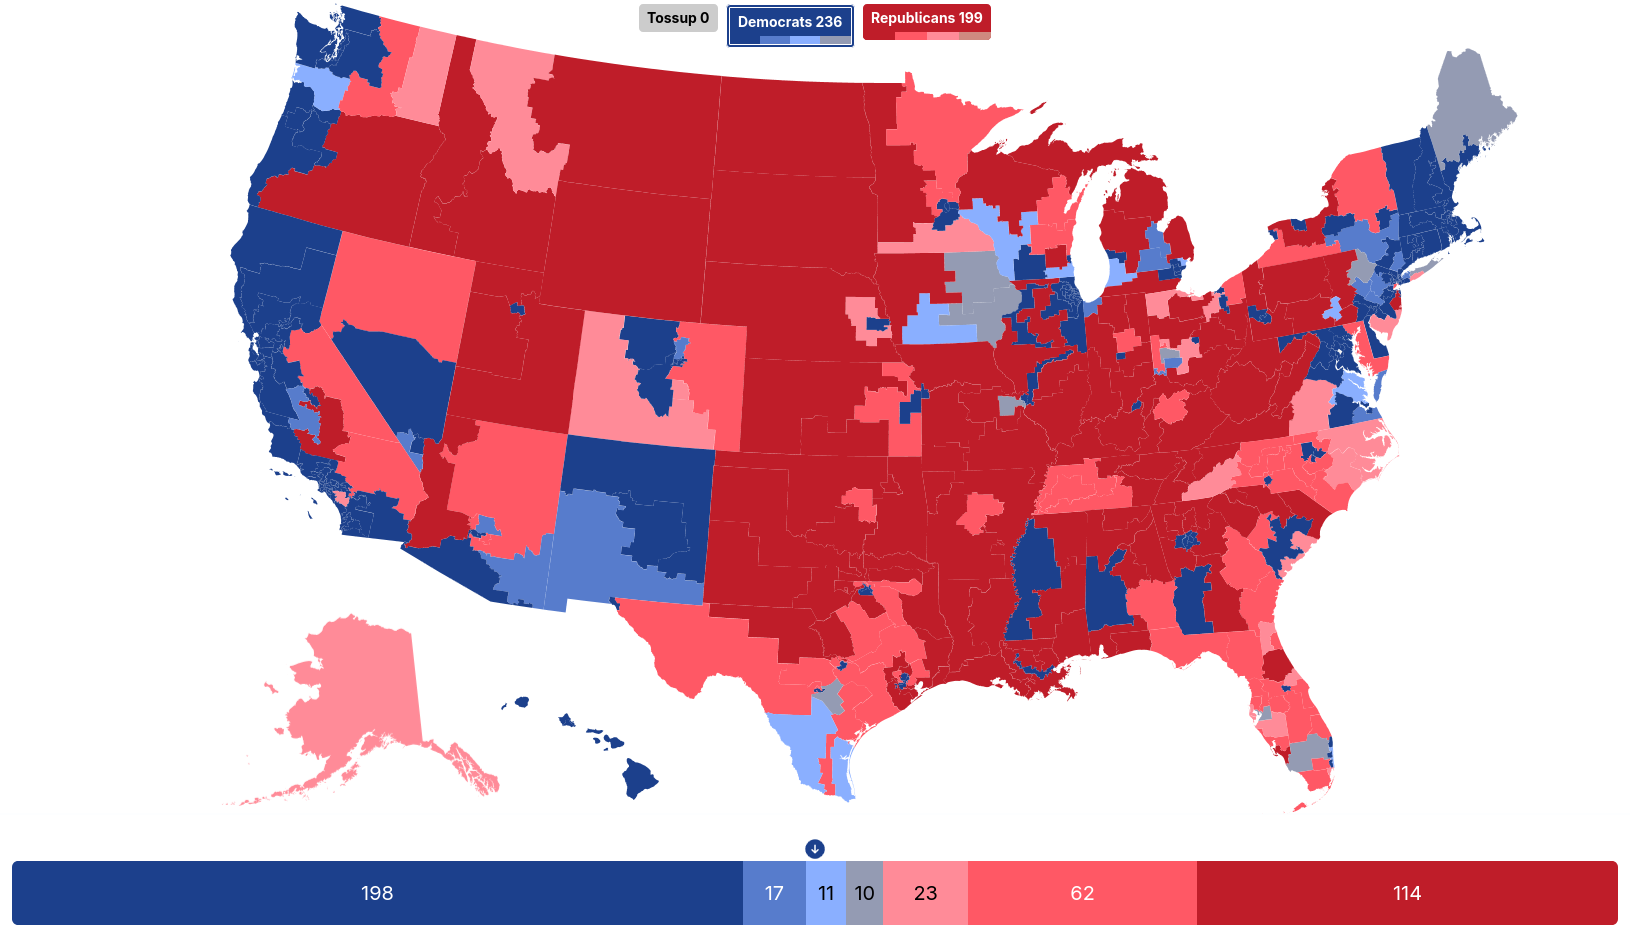
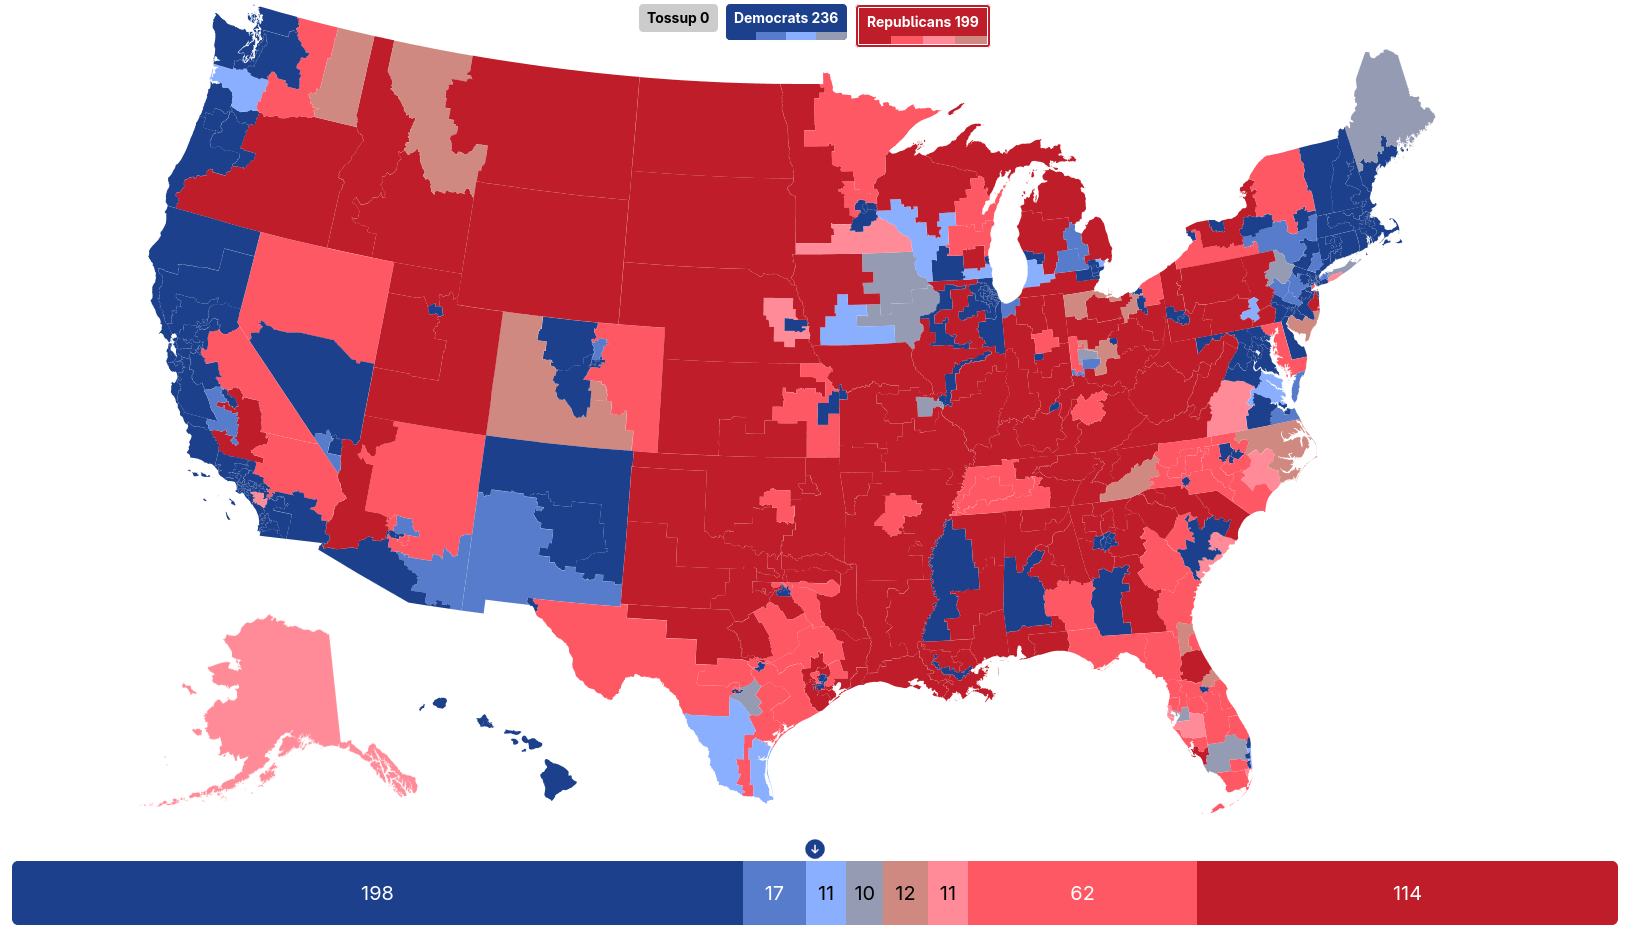
final touches

diff --git a/public/blog/election-2026/index.html b/public/blog/election-2026/index.html
@@ -330,13 +330,14 @@ The Democrats will win a seat if and only if \(M_\text{seat}>0\) (suppose there 
 For example, suppose a seat has CPVI R+4, or \(-4\). Then it takes a national generic ballot of greater (more Democratic) than \(-(-4)=+8\), i.e. D+8 or more.</p>
 <p>The predicted margin \(M\) is a seat&rsquo;s CPVI (\(+\) for Democratic, \(-\) for Republican) plus \(+8.53\). Sort into tilt/lean/likely/safe as follows:</p>
 <ul>
-<li>\(0 < M \leq 1\): Tilt.</li>
-<li>\(1 < M \leq 5\): Lean.</li>
+<li>\(0 < M \leq 2\): Tilt.</li>
+<li>\(2 < M \leq 5\): Lean.</li>
 <li>\(5 < M \leq 12\): Likely.</li>
 <li>\(M > 12\): Safe.</li>
 </ul>
 <p><img src="/images/2026-house.png" alt="House predictions"></p>
-<p>I think this is actually somewhat reasonable. There are some seats that I disagree with (NC-01, NY-01, OH-07 because of the Max Miller scandal, OH-09, OH-10, TX-15), but overall, I think it&rsquo;s as good as it gets for a uniform swing model. You can compare it to the <a href="https://www.racetothewh.com/house">RaceToTheWH</a> and <a href="https://www.theargumentmag.com/p/split-ticket-2026-midterms-model">Split Ticket</a> forecasts. The predictions are not too dissimilar.</p>
+<p>I think this is actually somewhat reasonable. There are some seats that I think are wrong (NC-01, NY-01, TX-15, MO-05, Ohio and Colorado), but mainly: OH-10 (Mike Turner won by a lot more than the presidential margin) and PA-01 (Fitzpatrick is a strong overperformer). The tilt seats are extremely close so they all could go either way.</p>
+<p>Overall, though, I think it&rsquo;s as good as it gets for a uniform swing model. You can compare it to the <a href="https://www.racetothewh.com/house">RaceToTheWH</a> and <a href="https://www.theargumentmag.com/p/split-ticket-2026-midterms-model">Split Ticket</a> forecasts.</p>
 <details>
 <summary>Seat flips</summary>
 <p><u>Underlined</u> incumbents retiring. Seats marked by * affected by redistricting.</p>
@@ -563,21 +564,21 @@ For example, suppose a seat has CPVI R+4, or \(-4\). Then it takes a national ge
 			</tr>
 			<tr>
 					<td style="text-align: center">TX-9 *</td>
-					<td style="text-align: center"><em>None</em></td>
+					<td style="text-align: center"><em>None</em>²</td>
 					<td style="text-align: center">D</td>
 					<td style="text-align: center">R</td>
 					<td style="text-align: center">R+9</td>
 			</tr>
 			<tr>
 					<td style="text-align: center">TX-32 *</td>
-					<td style="text-align: center"><em>None</em></td>
+					<td style="text-align: center"><em>None</em>²</td>
 					<td style="text-align: center">D</td>
 					<td style="text-align: center">R</td>
 					<td style="text-align: center">R+7</td>
 			</tr>
 			<tr>
 					<td style="text-align: center">UT-1 *</td>
-					<td style="text-align: center"><em>None</em></td>
+					<td style="text-align: center"><em>None</em>²</td>
 					<td style="text-align: center">R</td>
 					<td style="text-align: center">D</td>
 					<td style="text-align: center">D+32</td>
@@ -612,7 +613,8 @@ For example, suppose a seat has CPVI R+4, or \(-4\). Then it takes a national ge
 			</tr>
 	</tbody>
 </table>
-<p>¹: Running in CA-40.</p>
+<p>¹ Running in CA-40.
+² Open seat due to redistricting.</p>
 <p>Margins are not precise as I only got PVI without decimal places. I probably got the redistricting mixed up somewhere, especially California.</p>
 </details>
 <p>Take these this with a grain of salt. Uniform national swing like this is not a good way of predicting the House as the <a href="#limitations">limitations</a>, specifically the localized effects, are even more pronounced.</p>

diff --git a/content/blog/election-2026.md b/content/blog/election-2026.md
@@ -220,14 +220,16 @@ The Democrats will win a seat if and only if \(M_\text{seat}>0\) (suppose there 
 For example, suppose a seat has CPVI R+4, or \(-4\). Then it takes a national generic ballot of greater (more Democratic) than \(-(-4)=+8\), i.e. D+8 or more.
 
 The predicted margin \(M\) is a seat's CPVI (\(+\) for Democratic, \(-\) for Republican) plus \(+8.53\). Sort into tilt/lean/likely/safe as follows:
- - \(0 < M \leq 1\): Tilt.
- - \(1 < M \leq 5\): Lean.
+ - \(0 < M \leq 2\): Tilt.
+ - \(2 < M \leq 5\): Lean.
  - \(5 < M \leq 12\): Likely.
  - \(M > 12\): Safe.
 
 ![House predictions](/images/2026-house.png)
 
-I think this is actually somewhat reasonable. There are some seats that I disagree with (NC-01, NY-01, OH-07 because of the Max Miller scandal, OH-09, OH-10, TX-15), but overall, I think it's as good as it gets for a uniform swing model. You can compare it to the [RaceToTheWH](https://www.racetothewh.com/house) and [Split Ticket](https://www.theargumentmag.com/p/split-ticket-2026-midterms-model) forecasts. The predictions are not too dissimilar.
+I think this is actually somewhat reasonable. There are some seats that I think are wrong (NC-01, NY-01, TX-15, MO-05, Ohio and Colorado), but mainly: OH-10 (Mike Turner won by a lot more than the presidential margin) and PA-01 (Fitzpatrick is a strong overperformer). The tilt seats are extremely close so they all could go either way.
+
+Overall, though, I think it's as good as it gets for a uniform swing model. You can compare it to the [RaceToTheWH](https://www.racetothewh.com/house) and [Split Ticket](https://www.theargumentmag.com/p/split-ticket-2026-midterms-model) forecasts.
 
 <details>
 <summary>Seat flips</summary>
@@ -266,16 +268,17 @@ I think this is actually somewhat reasonable. There are some seats that I disagr
 |PA-8|Bresnahan|R|D|D+0.5|
 |PA-10|Perry|R|D|D+2|
 |TN-9 *|<u>Cohen</u>|D|R|R+9|
-|TX-9 *|*None*|D|R|R+9|
-|TX-32 *|*None*|D|R|R+7|
-|UT-1 *|*None*|R|D|D+32|
+|TX-9 *|*None*²|D|R|R+9|
+|TX-32 *|*None*²|D|R|R+7|
+|UT-1 *|*None*²|R|D|D+32|
 |VA-1|Wittman|R|D|D+2|
 |VA-2|Kiggans|R|D|D+8|
 |WI-1|Steil|R|D|D+4|
 |WI-3|Van Orden|R|D|D+2|
 
 
-¹: Running in CA-40.
+¹ Running in CA-40.
+² Open seat due to redistricting.
 
 Margins are not precise as I only got PVI without decimal places. I probably got the redistricting mixed up somewhere, especially California.
 </details>
